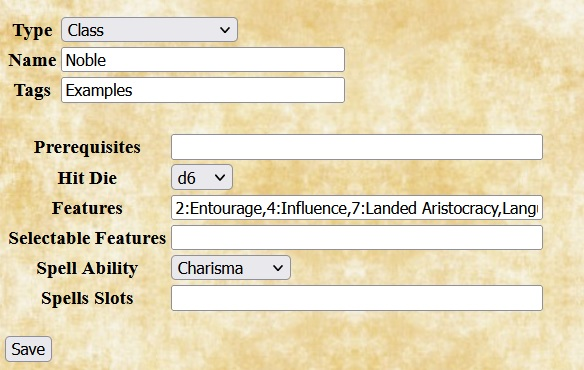
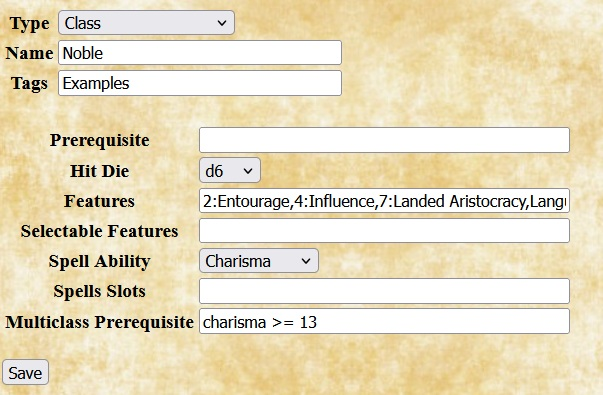
Add a test for multiclass requirements. Note changes made by errata.

diff --git a/plugins/SRD5E.js b/plugins/SRD5E.js
@@ -153,7 +153,8 @@ SRD5E.CLASSES = {
       '"features.Path Of The Berserker ? 14:Retaliation" ' +
     'Selectables=' +
       '"3:Path Of The Berserker:Primal Path" ' +
-    'SpellAbility=Wisdom',
+    'SpellAbility=Wisdom ' +
+    'MulticlassPrerequisite="strength >= 13"',
   'Bard':
     'HitDie=d8 ' +
     'Features=' +
@@ -183,7 +184,8 @@ SRD5E.CLASSES = {
       'B6:1@11;2@19,' +
       'B7:1@13;2@20,' +
       'B8:1@15,' +
-      'B9:1@17',
+      'B9:1@17 ' +
+    'MulticlassPrerequisite="charisma >= 13"',
   'Cleric':
     'HitDie=d8 ' +
     'Features=' +
@@ -213,7 +215,8 @@ SRD5E.CLASSES = {
       'C6:1@11;2@19,' +
       'C7:1@13;2@20,' +
       'C8:1@15,' +
-      'C9:1@17',
+      'C9:1@17 ' +
+    'MulticlassPrerequisite="wisdom >= 13"',
   'Druid':
     'HitDie=d8 ' +
     'Features=' +
@@ -250,7 +253,8 @@ SRD5E.CLASSES = {
       'D6:1@11;2@19,' +
       'D7:1@13;2@20,' +
       'D8:1@15,' +
-      'D9:1@17',
+      'D9:1@17 ' +
+    'MulticlassPrerequisite="wisdom >= 13"',
  'Fighter':
     'HitDie=d10 ' +
     'Features=' +
@@ -273,7 +277,8 @@ SRD5E.CLASSES = {
       '"1:Fighting Style (Protection):Fighting Style",' +
       '"1:Fighting Style (Two-Weapon Fighting):Fighting Style",' +
       '"3:Champion:Martial Archetype" ' +
-    'SpellAbility=Intelligence',
+    'SpellAbility=Intelligence ' +
+    'MulticlassPrerequisite="strength >= 13 || dexterity >= 13"',
   'Monk':
     'HitDie=d8 ' +
     'Features=' +
@@ -294,7 +299,8 @@ SRD5E.CLASSES = {
       '"features.Way Of The Open Hand ? 17:Quivering Palm" ' +
     'Selectables=' +
       '"3:Way Of The Open Hand:Monastic Tradition" ' +
-    'SpellAbility=Wisdom',
+    'SpellAbility=Wisdom ' +
+    'MulticlassPrerequisite="dexterity >= 13","wisdom >= 13"',
   'Paladin':
     'HitDie=d10 ' +
     'Features=' +
@@ -323,7 +329,8 @@ SRD5E.CLASSES = {
       'P2:2@5;3@7,' +
       'P3:2@9;3@11,' +
       'P4:1@13;2@15;3@17,' +
-      'P5:1@17;2@19',
+      'P5:1@17;2@19 ' +
+    'MulticlassPrerequisite="strength >= 13","charisma >= 13"',
   'Ranger':
     'HitDie=d10 ' +
     'Features=' +
@@ -362,7 +369,8 @@ SRD5E.CLASSES = {
       'R2:2@5;3@7,' +
       'R3:2@9;3@11,' +
       'R4:1@13;2@15;3@17,' +
-      'R5:1@17;2@19',
+      'R5:1@17;2@19 ' +
+    'MulticlassPrerequisite="dexterity >= 13","wisdom >= 13"',
   'Rogue':
     'HitDie=d8 ' +
     'Features=' +
@@ -382,7 +390,8 @@ SRD5E.CLASSES = {
       '"features.Thief ? 17:Thief\'s Reflexes" ' +
     'Selectables=' +
       '"3:Thief:Roguish Archetype" ' +
-    'SpellAbility=Intelligence',
+    'SpellAbility=Intelligence ' +
+    'MulticlassPrerequisite="dexterity >= 13"',
   'Sorcerer':
     'HitDie=d6 ' +
     'Features=' +
@@ -421,7 +430,8 @@ SRD5E.CLASSES = {
       'S6:1@11;2@19,' +
       'S7:1@13;2@20,' +
       'S8:1@15,' +
-      'S9:1@17',
+      'S9:1@17 ' +
+    'MulticlassPrerequisite="charisma >= 13"',
   'Warlock':
     'HitDie=d8 ' +
     'Features=' +
@@ -479,7 +489,8 @@ SRD5E.CLASSES = {
       'K2:2@3,' +
       'K3:2@5,' +
       'K4:2@7,' +
-      'K5:2@9;3@11;4@17',
+      'K5:2@9;3@11;4@17 ' +
+    'MulticlassPrerequisite="charisma >= 13"',
   'Wizard':
     'HitDie=d6 ' +
     'Features=' +
@@ -506,7 +517,8 @@ SRD5E.CLASSES = {
       'W6:1@11;2@19,' +
       'W7:1@13;2@20,' +
       'W8:1@15,' +
-      'W9:1@17'
+      'W9:1@17 ' +
+    'MulticlassPrerequisite="intelligence >= 13"'
 };
 SRD5E.FEATS = {
   'Ability Boost':'',
@@ -523,6 +535,7 @@ SRD5E.FEATURES = {
   'Dwarf Ability Adjustment':'Section=ability Note="+2 Constitution"',
   'Dwarven Combat Training':
     'Section=combat ' +
+    // errata replaces Throwing Hammer with Light Hammer
     'Note="Weapon Proficiency (Battleaxe; Handaxe; Light Hammer; Warhammer)"',
   'Dwarven Resilience':
     'Section=save ' +
@@ -622,7 +635,8 @@ SRD5E.FEATURES = {
     'Section=save Note="Has resistance to fire damage"',
   'Infernal Legacy':
     'Section=magic ' +
-    'Note="Knows the <i>Thaumaturgy</i> cantrip%{level<3?\'\':level<5?\' and can cast <i>Hellish Rebuke</i> 1/long rest\':\' and can cast <i>Hellish Rebuke</i> and <i>Darkness</i> 1/long rest\'}" ' +
+    // errata replaces once per day with once per long rest
+    'Note="Knows the <i>Thaumaturgy</i> cantrip%{level<3?\'\':level<5?\' and can cast <i>Hellish Rebuke</i> once per long rest\':\' and can cast <i>Hellish Rebuke</i> and <i>Darkness</i> once per long rest\'}" ' +
     'Spells=Thaumaturgy,"3:Hellish Rebuke",5:Darkness ' +
     'SpellAbility=Charisma',
 
@@ -696,7 +710,8 @@ SRD5E.FEATURES = {
     'Section=magic Note="Can cast spells marked with [R] using a ritual"',
   'Song Of Rest':
     'Section=magic ' +
-    'Note="Friendly listeners regain +1d%{levels.Bard>=9?6+(levels.Bard-5)//4*2:6} hit points after a short rest"',
+    // errata specifies spending Hit Dice
+    'Note="Friendly listeners regain +1d%{levels.Bard>=9?6+(levels.Bard-5)//4*2:6} hit points from spending Hit Dice after a short rest"',
   // TODO No note for Spellcasting feature?
   'Superior Inspiration':
     'Section=combat ' +
@@ -1177,12 +1192,13 @@ SRD5E.FEATURES = {
   'Pact Of The Chain':
     'Section=combat,magic ' +
     'Note=' +
+      // errata specifies that the attack is a reaction
       '"Can forego one attack to allow familiar to attack as a reaction",' +
       '"Can cast <i>Find Familiar</i> as a ritual" ' +
     'Spells="Find Familiar"',
   'Pact Of The Tome':
     'Section=magic ' +
-    'Note="Has a <i>Book Of Shadows</i> containing 3 chosen cantrips that can be cast at will"',
+    'Note="Has a <i>Book Of Shadows</i> containing 3 chosen cantrips from any spell lists that can be cast at will"',
   // The Fiend
   "Dark One's Blessing":
     'Section=combat ' +
@@ -1220,7 +1236,7 @@ SRD5E.FEATURES = {
     'Spells=Compulsion',
   'Book Of Ancient Secrets':
     'Section=magic ' +
-    'Note="Can inscribe spell rituals in a <i>Book Of Shadows</i>"',
+    'Note="Has 2 1st-level spell rituals inscribed in a <i>Book Of Shadows</i> and can inscribe additional rituals"',
   'Chains Of Carceri':
     'Section=magic ' +
     'Note="Can cast <i>Hold Monster</i> at will on celestials, elementals, and fiends once per long rest per creature" ' +
@@ -1335,11 +1351,11 @@ SRD5E.FEATURES = {
     'Note="Can receive aid from temples of %{deity} and fellow believers"',
 
   // Feats
-  'Ability Boost':'Section=Ability Note="Ability Boost (Choose %V from any)"',
+  'Ability Boost':'Section=ability Note="Ability Boost (Choose %V from any)"',
   'Grappler':
-    'Section=Combat ' +
-    // Note: grapple larger foes benefit removed by errata
-    'Note="Adv on attacks on a grappled foe/May pin a grappled foe w/an additional successful attempt"',
+    'Section=combat ' +
+    // errata removes grapple larger foes benefit
+    'Note="Has advantage on attacks on a grappled foe and can restrain a grappled foe with an additional successful grapple"',
 
   // Sanity, Validation and Miscellaneous
   'Bulky Armor':'Section=skill Note="Has disadvantage on Stealth"',
@@ -3336,6 +3352,7 @@ SRD5E.WEAPONS = {
   'Quarterstaff':'Category="Simple Melee" Property=Versatile Damage=1d6',
   'Sickle':'Category="Simple Melee" Property=Light Damage=1d4',
   'Spear':'Category="Simple Melee" Property=Versatile Damage=1d6 Range=20/60',
+  // errata removes Unarmed Strike
 
   'Light Crossbow':
     'Category="Simple Ranged" Property=Ammunition,Loading,Two-Handed ' +
@@ -3580,8 +3597,11 @@ SRD5E.combatRules = function(rules, armors, shields, weapons) {
   rules.defineRule('features.Two-Handed Weapon With Shield',
     'shield', '?', 'source != "None"'
   );
-  rules.defineRule
-    ('hitPoints', 'combatNotes.constitutionHitPointsAdjustment', '+', null);
+  rules.defineRule('hitPoints',
+    'combatNotes.constitutionHitPointsAdjustment', '+', null,
+    // errata specifies a minimum in the case of low constitution
+    'level', '^', null
+  );
   rules.defineRule('initiative', 'dexterityModifier', '=', null);
   SRD5E.weaponRules(rules, 'Unarmed', 'Unarmed', [], '1', null);
   rules.defineRule('weapons.Unarmed', '', '=', '1');
@@ -3613,7 +3633,7 @@ SRD5E.identityRules = function(
   QuilvynUtils.checkAttrTable
     (backgrounds, ['Equipment', 'Features']);
   QuilvynUtils.checkAttrTable
-    (classes, ['Require', 'HitDie', 'Features', 'Selectables', 'SpellAbility', 'SpellSlots']);
+    (classes, ['Require', 'HitDie', 'Features', 'Selectables', 'SpellAbility', 'SpellSlots', 'MulticlassPrerequisite']);
   QuilvynUtils.checkAttrTable(deities, ['Alignment', 'Domain']);
   QuilvynUtils.checkAttrTable
     (paths, ['Features', 'Selectables', 'Group', 'Level', 'SpellAbility', 'SpellSlots', 'Spells']);
@@ -3649,8 +3669,14 @@ SRD5E.identityRules = function(
   rules.defineRule('level',
     'experience', '=', 'SRD5E.LEVELS_EXPERIENCE.findIndex(item => item * 1000 > source)'
   );
-  QuilvynRules.validAllocationRules
-    (rules, 'level', 'level', 'Sum "^levels\\."');
+  QuilvynRules.validAllocationRules(rules, 'level', 'level', 'levelsAllocated');
+  rules.defineChoice
+    ('notes', 'validationNotes.multiclassRequirements:Requires meeting the multiclass requirements for %V additional chosen class%{validationNotes.multiclassRequirements>1?\'es\':\'\'}');
+  rules.defineRule('validationNotes.multiclassRequirements',
+    'classCount', '=', 'source>1 ? source - 1 : null',
+    'multiclassPrerequisitesMet', '+', '-source',
+    '', '^', '0'
+  );
 
 };
 
@@ -3768,7 +3794,8 @@ SRD5E.choiceRules = function(rules, type, name, attrs) {
       QuilvynUtils.getAttrValueArray(attrs, 'Features'),
       QuilvynUtils.getAttrValueArray(attrs, 'Selectables'),
       QuilvynUtils.getAttrValue(attrs, 'SpellAbility'),
-      QuilvynUtils.getAttrValueArray(attrs, 'SpellSlots')
+      QuilvynUtils.getAttrValueArray(attrs, 'SpellSlots'),
+      QuilvynUtils.getAttrValueArray(attrs, 'MulticlassPrerequisite')
     );
     SRD5E.classRulesExtra(rules, name);
   } else if(type == 'Class Feature')
@@ -4154,10 +4181,12 @@ SRD5E.backgroundFeatureRules = function(
  * list the fixed and selectable features acquired as the character advances in
  * class level. #spellAbility# names the ability for computing spell difficulty
  * class, and #spellSlots# lists the number of spells per level per day that
- * the class can cast.
+ * the class can cast. #multiclassPrerequisite# specifies any prerequesites
+ * for adding the class to an existing character of another class.
  */
 SRD5E.classRules = function(
-  rules, name, requires, hitDie, features, selectables, spellAbility, spellSlots
+  rules, name, requires, hitDie, features, selectables, spellAbility,
+  spellSlots, multiclassPrerequisite
 ) {
 
   if(!name) {
@@ -4189,6 +4218,10 @@ SRD5E.classRules = function(
     console.log('Bad spellSlots list "' + spellSlots + '" for class ' + name);
     return;
   }
+  if(!Array.isArray(multiclassPrerequisite)) {
+    console.log('Bad multiclass prerequisite list "' + multiclassPrerequisite + '" for class ' + name);
+    return;
+  }
 
   let classLevel = 'levels.' + name;
   let i;
@@ -4204,9 +4237,11 @@ SRD5E.classRules = function(
   rules.defineSheetElement(name + ' Features', 'Feats+', null, '; ');
   rules.defineChoice('extras', prefix + 'Features');
 
+  rules.defineRule('classCount', classLevel, '+=', '1');
   rules.defineRule('featCount.General',
     'levels.' + name, '+=', 'Math.min(Math.floor(source / 4), 5)'
   );
+  rules.defineRule('levelsAllocated', classLevel, '+=', null);
   rules.defineRule('proficiencyBonus',
     'levels.' + name, '=', 'Math.floor((source + 7) / 4)'
   );
@@ -4244,6 +4279,15 @@ SRD5E.classRules = function(
       );
     }
 
+  }
+
+  if(multiclassPrerequisite.length > 0) {
+    QuilvynRules.prerequisiteRules(rules,
+      'test', prefix + 'Multiclass', classLevel, multiclassPrerequisite
+    );
+    rules.defineRule('multiclassPrerequisitesMet',
+      'testNotes.' + prefix + 'Multiclass', '+=', 'source==0 ? 1 : null'
+    );
   }
 
 };
@@ -5832,7 +5876,8 @@ SRD5E.choiceEditorElements = function(rules, type) {
       ['Features', 'Features', 'text', [40]],
       ['Selectables', 'Selectable Features', 'text', [40]],
       ['SpellAbility', 'Spell Ability', 'select-one', abilities],
-      ['SpellSlots', 'Spells Slots', 'text', [40]]
+      ['SpellSlots', 'Spells Slots', 'text', [40]],
+      ['MulticlassPrerequisite', 'Multiclass Prerequisite', 'text', [40]]
     );
   else if(type == 'Class Feature')
     result.push(
@@ -6690,17 +6735,16 @@ SRD5E.ruleNotes = function() {
     '<h3>Limitations</h3>\n' +
     '<ul>\n' +
     '  <li>\n' +
-    '  Quilvyn does not report background traits, ideals, bonds, flaws,\n' +
-    '  or equipment. These items can be entered in the Notes section.\n' +
+    '  Quilvyn does not report background traits, ideals, bonds, flaws, or' +
+    '  equipment. These items can be entered in the Notes section.\n' +
     '  </li>\n' +
     '</ul>\n' +
     '\n' +
     '<h3>Known Bugs</h3>\n' +
     '<ul>\n' +
     '  <li>\n' +
-    '  Quilvyn does not test multiclass ability prerequisites, and Quilvyn\n'+
-    '  gives multiclass characters the complete set of proficiencies for\n' +
-    '  each class.\n' +
+    '  Quilvyn gives multiclass characters the complete set of proficiencies' +
+    '  for each class.\n' +
     '  </li>\n' +
     '</ul>\n' +
     '<h3>Copyrights and Licensing</h3>\n' +

diff --git a/plugins/homebrew-srd5e.html b/plugins/homebrew-srd5e.html
@@ -142,18 +142,18 @@ with a homebrew feature named Mithralsmith.
 </td><td>
 <p>
 When adding a homebrew class, Quilvyn displays fields that allow you to specify
-optional class prerequisites, the class hit dice, class features, and
-information about class spellcasting. Features that are acquired after level 1
-(for example, the rogue Cunning Action feature acquired at level 2) should be
-preceded by the level and a colon (so, 2:Cunning Action). For classes that cast
-spells, the spell ability and spell slots input fields provide places to enter
-the basic ability used to calculate spell DCs and the progression of spell
-slots available to the caster. Each item in the spell slot text box gives a
-spell type and level followed by a colon, then by a series of
-&lt;count&gt;@&lt;level&gt; terms, each of which indicates how many spell slots
-the class receives at the given level. For example, the spell slot entry for
-the cleric class would include C2: 2@3 3@4, indicating that clerics acquire 2
-C2 slots at level 3 and a third at level 4.
+optional class prerequisites, the class hit dice, class features, information
+about class spellcasting, and requirements for multiclassing in the class.
+Features that are acquired after level 1 (for example, the rogue Cunning Action
+feature acquired at level 2) should be preceded by the level and a colon (so,
+2:Cunning Action). For classes that cast spells, the spell ability and spell
+slots input fields provide places to enter the basic ability used to calculate
+spell DCs and the progression of spell slots available to the caster. Each item
+in the spell slot text box gives a spell type and level followed by a colon,
+then by a series of &lt;count&gt;@&lt;level&gt; terms, each of which indicates
+how many spell slots the class receives at the given level. For example, the
+spell slot entry for the cleric class would include C2: 2@3 3@4, indicating
+that clerics acquire 2 C2 slots at level 3 and a third at level 4.
 </p><p>
 The example shows a set of possible values for a Noble class, which provides
 1d6 hit points at each level and proficiency in light armor, shields, martial
@@ -161,7 +161,8 @@ weapons, a choice of two languages, Charisma, Wisdom, Deception, and Insight.
 Class features additionally include Entourage, Influence, and Landed
 Aristocracy, which are acquired at levels 2, 4, and 7, respectively. The
 effects of each of these features would be described by a
-<a href="#feature">homebrew feature</a> of the same name.
+<a href="#feature">homebrew feature</a> of the same name. Multiclassing with
+levels in Noble requires a charisma score of at least 13.
 </p>
 </td></tr>
 
